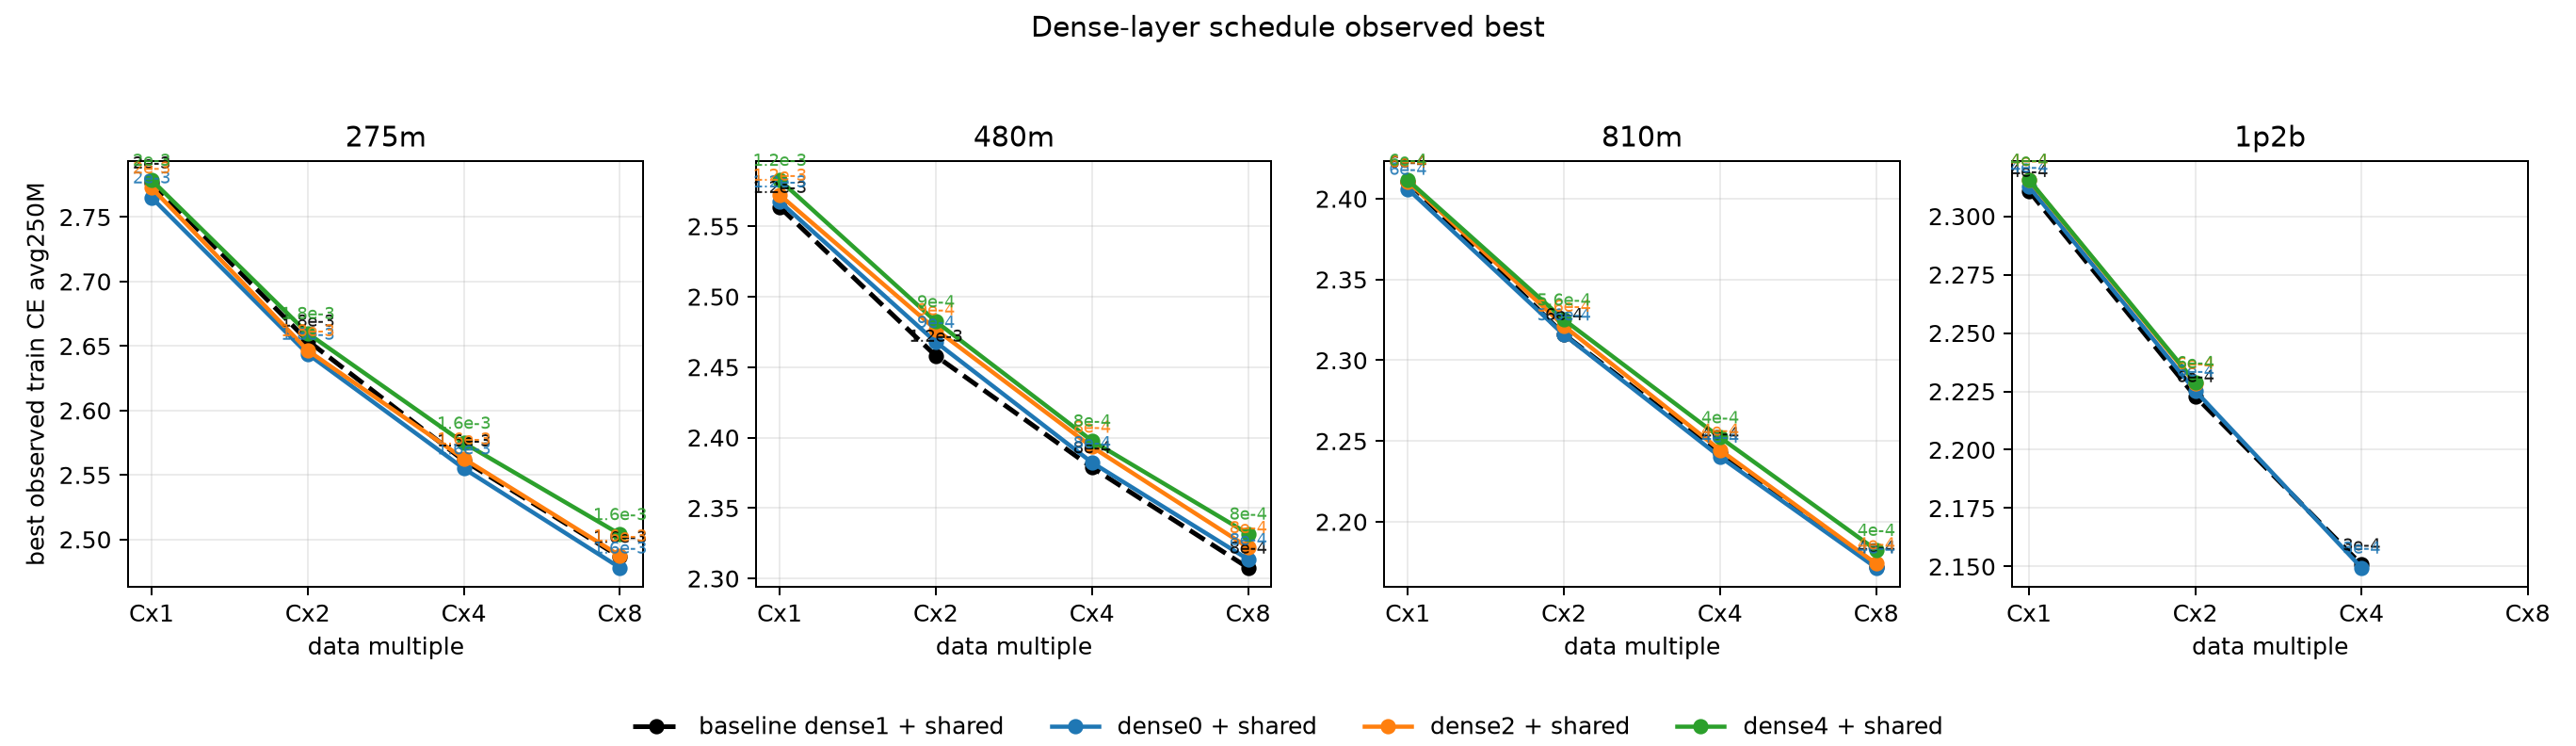
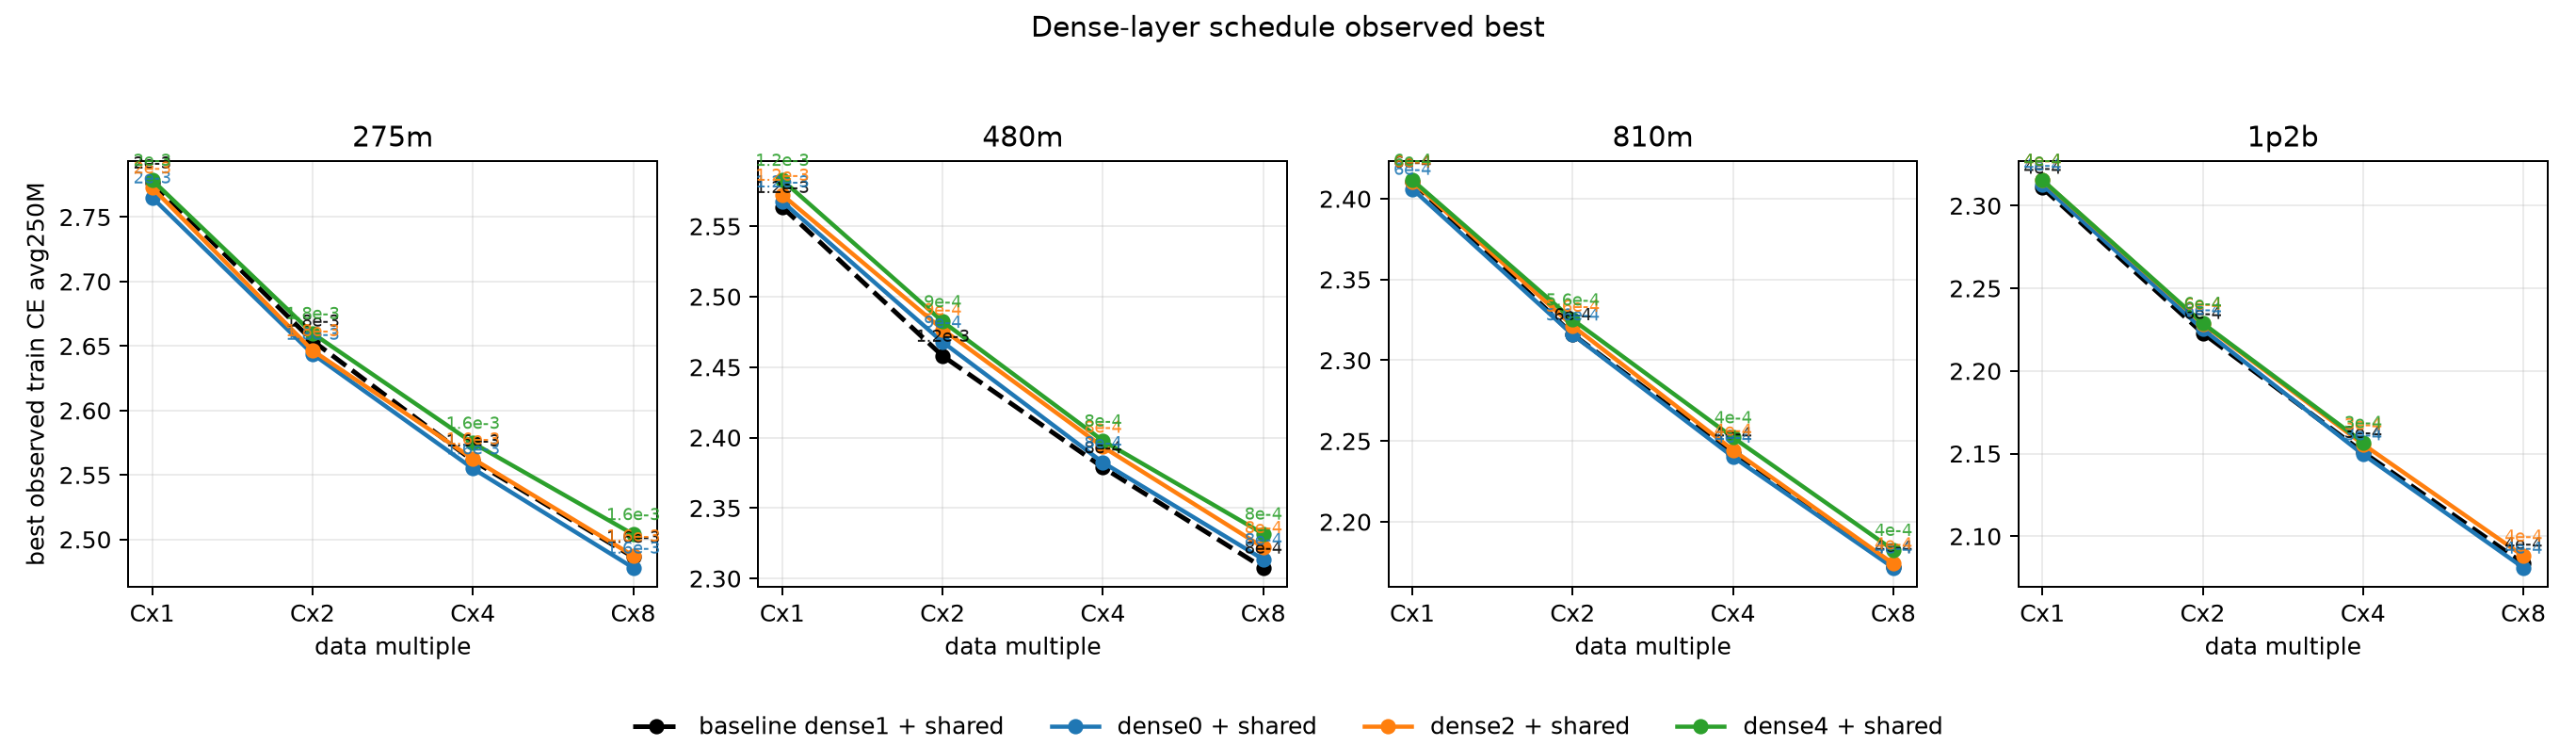
Use tail W&B history for ladder plots

diff --git a/src/scripts/train/jacobm_olmoe_ladder/wandb_cache.py b/src/scripts/train/jacobm_olmoe_ladder/wandb_cache.py
@@ -1,6 +1,7 @@
 from __future__ import annotations
 
 import json
+import math
 import os
 from pathlib import Path
 from typing import Any
@@ -12,6 +13,10 @@ CACHE_VERSION = 2
 
 def run_cache_key(project: str, run_id: str) -> str:
     return f"{project.replace('/', '__')}__{run_id}.json"
+
+
+def tail_cache_key(project: str, run_id: str, window_tokens: int) -> str:
+    return f"{project.replace('/', '__')}__{run_id}__tail_{window_tokens}.json"
 
 
 def run_cache_metadata(run: Any, keys: list[str] | None = None) -> dict[str, Any]:
@@ -33,6 +38,71 @@ def _history_max(history: list[dict[str, Any]], key: str) -> float | None:
     if not vals:
         return None
     return max(float(val) for val in vals)
+
+
+def _history_min(history: list[dict[str, Any]], key: str) -> float | None:
+    vals = [row.get(key) for row in history if row.get(key) is not None]
+    if not vals:
+        return None
+    return min(float(val) for val in vals)
+
+
+def _tokens_key(keys: list[str]) -> str:
+    for key in keys:
+        if key.endswith("total tokens"):
+            return key
+    return "throughput/total tokens"
+
+
+def _tail_step_range(run: Any, *, window_tokens: int, min_tail_steps: int = 2000) -> tuple[int, int]:
+    summary = dict(run.summary)
+    summary_step = summary.get("_step") or getattr(run, "lastHistoryStep", None)
+    summary_tokens = summary.get("throughput/total tokens") or summary.get("optim/total tokens")
+    last_step = getattr(run, "lastHistoryStep", None) or summary_step
+    if last_step is None:
+        return 0, min_tail_steps
+
+    tail_steps = min_tail_steps
+    if summary_step and summary_tokens:
+        tokens_per_step = float(summary_tokens) / max(float(summary_step), 1.0)
+        if tokens_per_step > 0:
+            tail_steps = max(min_tail_steps, math.ceil(window_tokens / tokens_per_step) + 100)
+
+    max_step = int(last_step) + 1
+    min_step = max(0, max_step - tail_steps)
+    return min_step, max_step
+
+
+def cached_tail_is_short(
+    cached_history: list[dict[str, Any]],
+    current_meta: dict[str, Any],
+    *,
+    window_tokens: int,
+    tokens_key: str = "throughput/total tokens",
+) -> bool:
+    if not cached_history:
+        return True
+
+    summary_tokens = current_meta.get("summary_total_tokens")
+    cached_tokens = _history_max(cached_history, tokens_key)
+    if cached_tokens is None:
+        return True
+    if summary_tokens is not None and cached_tokens < float(summary_tokens) - 5_000_000:
+        return True
+
+    cached_min_tokens = _history_min(cached_history, tokens_key)
+    if cached_min_tokens is None:
+        return True
+
+    summary_step = current_meta.get("summary_step")
+    tokens_per_step = 0.0
+    if summary_step and summary_tokens:
+        tokens_per_step = float(summary_tokens) / max(float(summary_step), 1.0)
+    # The tail cache must reach far enough left to cover the final averaging
+    # window. Allow a small step-sized cushion because the window boundary can
+    # fall between logged token values.
+    cushion = max(tokens_per_step * 2, 1.0)
+    return cached_min_tokens > cached_tokens - window_tokens + cushion
 
 
 def cached_history_is_short(
@@ -96,6 +166,79 @@ def read_history_from_cache(
     return history
 
 
+def read_tail_history_from_cache(
+    cache_dir: Path,
+    project: str,
+    run: Any,
+    *,
+    window_tokens: int,
+    tokens_key: str = "throughput/total tokens",
+    keys: list[str] | None = None,
+) -> list[dict[str, Any]] | None:
+    cache_path = cache_dir / tail_cache_key(project, run.id, window_tokens)
+    if not cache_path.exists():
+        return None
+
+    with cache_path.open("r") as f:
+        cached = json.load(f)
+
+    cached_meta = cached.get("metadata", {})
+    current_meta = run_cache_metadata(run, keys)
+    if cached_meta.get("cache_version") != CACHE_VERSION:
+        return None
+    if cached_meta.get("cache_kind") != "tail":
+        return None
+    if cached_meta.get("tail_window_tokens") != window_tokens:
+        return None
+    if keys is not None:
+        cached_keys = cached_meta.get("history_keys")
+        if cached_keys is None or not set(keys).issubset(set(cached_keys)):
+            return None
+    if cached_meta.get("state") != current_meta["state"]:
+        return None
+    if cached_meta.get("summary_step") != current_meta["summary_step"]:
+        return None
+
+    history = cached.get("history", [])
+    if cached_tail_is_short(history, current_meta, window_tokens=window_tokens, tokens_key=tokens_key):
+        return None
+    return history
+
+
+def write_tail_history_to_cache(
+    cache_dir: Path,
+    project: str,
+    run: Any,
+    history: list[dict[str, Any]],
+    *,
+    window_tokens: int,
+    min_step: int,
+    max_step: int,
+    keys: list[str] | None = None,
+) -> None:
+    cache_dir.mkdir(parents=True, exist_ok=True)
+    cache_path = cache_dir / tail_cache_key(project, run.id, window_tokens)
+    metadata = run_cache_metadata(run, keys)
+    metadata.update(
+        {
+            "cache_kind": "tail",
+            "tail_window_tokens": window_tokens,
+            "min_step": min_step,
+            "max_step": max_step,
+        }
+    )
+    payload = {
+        "metadata": metadata,
+        "display_name": run.display_name,
+        "url": run.url,
+        "history": history,
+    }
+    tmp_path = cache_path.with_suffix(".tmp")
+    with tmp_path.open("w") as f:
+        json.dump(payload, f)
+    tmp_path.replace(cache_path)
+
+
 def write_history_to_cache(
     cache_dir: Path,
     project: str,
@@ -127,24 +270,57 @@ def scan_history_cached(
     refresh_cache: bool = False,
     refresh_stale_cache: bool = False,
     page_size: int = 1000,
+    tail_window_tokens: int | None = None,
+    tail_page_size: int = 100_000,
 ) -> list[dict[str, Any]]:
+    tokens_key = _tokens_key(keys)
     if not refresh_cache and run.state == "finished":
-        tokens_key = "throughput/total tokens"
-        for key in keys:
-            if key.endswith("total tokens"):
-                tokens_key = key
-                break
         cached = read_history_from_cache(
             cache_dir,
             project,
             run,
             allow_stale=not refresh_stale_cache,
-            require_complete=refresh_stale_cache,
+            require_complete=refresh_stale_cache or tail_window_tokens is not None,
             tokens_key=tokens_key,
             keys=keys,
         )
         if cached is not None:
             return cached
+
+        if tail_window_tokens is not None:
+            tail_cached = read_tail_history_from_cache(
+                cache_dir,
+                project,
+                run,
+                window_tokens=tail_window_tokens,
+                tokens_key=tokens_key,
+                keys=keys,
+            )
+            if tail_cached is not None:
+                return tail_cached
+
+    if run.state == "finished" and tail_window_tokens is not None:
+        min_step, max_step = _tail_step_range(run, window_tokens=tail_window_tokens)
+        history = [
+            dict(row)
+            for row in run.scan_history(
+                keys=keys,
+                min_step=min_step,
+                max_step=max_step,
+                page_size=max(tail_page_size, max_step - min_step),
+            )
+        ]
+        write_tail_history_to_cache(
+            cache_dir,
+            project,
+            run,
+            history,
+            window_tokens=tail_window_tokens,
+            min_step=min_step,
+            max_step=max_step,
+            keys=keys,
+        )
+        return history
 
     if run.state == "finished" and os.environ.get("SKIP_UNCACHED_FINISHED_HISTORY") == "1":
         return []

diff --git a/src/scripts/train/jacobm_olmoe_ladder/experiments/dense_schedule/plot_dense_schedule.py b/src/scripts/train/jacobm_olmoe_ladder/experiments/dense_schedule/plot_dense_schedule.py
@@ -99,6 +99,7 @@ def history_loss(
         refresh_cache=refresh_cache,
         refresh_stale_cache=refresh_stale_cache,
         page_size=10000,
+        tail_window_tokens=window_m * 1_000_000,
     ):
         tokens = row.get(TOKENS_KEY)
         loss = row.get(LOSS_KEY)

diff --git a/src/scripts/train/jacobm_olmoe_ladder/experiments/expert_granularity/plot_expert_granularity.py b/src/scripts/train/jacobm_olmoe_ladder/experiments/expert_granularity/plot_expert_granularity.py
@@ -88,6 +88,7 @@ def history_loss(
         refresh_cache=refresh_cache,
         refresh_stale_cache=refresh_stale_cache,
         page_size=10000,
+        tail_window_tokens=window_m * 1_000_000,
     ):
         tokens = row.get(TOKENS_KEY)
         loss = row.get(LOSS_KEY)

diff --git a/src/scripts/train/jacobm_olmoe_ladder/experiments/qwen3_like/plot_qwen3_like.py b/src/scripts/train/jacobm_olmoe_ladder/experiments/qwen3_like/plot_qwen3_like.py
@@ -104,6 +104,7 @@ def history_loss(
         refresh_cache=refresh_cache,
         refresh_stale_cache=refresh_stale_cache,
         page_size=10000,
+        tail_window_tokens=window_m * 1_000_000,
     ):
         tokens = row.get(TOKENS_KEY)
         loss = row.get(LOSS_KEY)

diff --git a/src/scripts/train/jacobm_olmoe_ladder/experiments/shared_expert/plot_shared_expert.py b/src/scripts/train/jacobm_olmoe_ladder/experiments/shared_expert/plot_shared_expert.py
@@ -85,6 +85,7 @@ def history_loss(
         refresh_cache=refresh_cache,
         refresh_stale_cache=refresh_stale_cache,
         page_size=10000,
+        tail_window_tokens=window_m * 1_000_000,
     ):
         tokens = row.get(TOKENS_KEY)
         loss = row.get(LOSS_KEY)

diff --git a/src/scripts/train/jacobm_olmoe_ladder/experiments/total_sparsity/plot_total_sparsity.py b/src/scripts/train/jacobm_olmoe_ladder/experiments/total_sparsity/plot_total_sparsity.py
@@ -87,6 +87,7 @@ def history_loss(
         refresh_cache=refresh_cache,
         refresh_stale_cache=refresh_stale_cache,
         page_size=10000,
+        tail_window_tokens=window_m * 1_000_000,
     ):
         tokens = row.get(TOKENS_KEY)
         loss = row.get(LOSS_KEY)

diff --git a/src/scripts/train/jacobm_olmoe_ladder/RUN_TRACKER.md b/src/scripts/train/jacobm_olmoe_ladder/RUN_TRACKER.md
@@ -1,6 +1,6 @@
 # Ladder Run Tracker
 
-Last updated: 2026-06-29 20:30 UTC.
+Last updated: 2026-06-29 23:31 UTC.
 
 This table is a scan-friendly status matrix for planned ladder cells. It is separate from `RUNS.md` (chronological launch/status log) and `PLOTTED_RESULTS.md` (finished-only plotted rows and losses).
 
@@ -13,7 +13,7 @@ Legend: `done` = at least one finished/plotted run exists; `run` = currently run
 | Experiment | Remaining not-yet-queued / not-started cells | Notes |
 | --- | --- | --- |
 | Total sparsity | 1.2B Cx1/2/4/8 for high total 96E/top4 and huge total 192E/top4 | 275M, 480M, and 810M are done. |
-| Dense schedule | None beyond running/finished-unplotted 1.2B tail jobs | 480M and 810M are plotted. Several 1.2B dense jobs finished; three 1.2B dense histories are currently blocked by W&B `CommError`. |
+| Dense schedule | None beyond running 1.2B tail jobs | 480M, 810M, and finished 1.2B dense jobs are plotted. Remaining 1.2B Cx8 dense2/dense4 jobs are still running. |
 | Shared expert | 1.2B Cx8 queued/created | 480M, 810M, and 1.2B Cx1/2/4 are Beaker-finalized with exit code 0. The 2026-06-23 duplicate 480M relaunches were eval-only resumes; duplicate Cx8 was stopped before start. |
 | Qwen-like | None beyond restarted true-3D 1.2B Cx8 retry | Active-matched 1.2B Cx8 finished and is plotted. True-3D 1.2B Cx8 was restarted after an exit-1/cancelled attempt and has a fresh running W&B attempt. |
 | Expert granularity | None for main coarse/fine grid | Diagnostic 192E/384E remains intentionally limited to 275M Cx1. |
@@ -30,15 +30,15 @@ Legend: `done` = at least one finished/plotted run exists; `run` = currently run
 | Total sparsity | high total 96E/top4 | done Cx1/2/4/8 | done Cx1/2/4/8 | done Cx1/2/4/8 | todo Cx1/2/4/8 | 810M promoted wave complete. |
 | Total sparsity | huge total 192E/top4 | done Cx1/2/4/8 | done Cx1/2/4/8 | done Cx1/2/4/8 | todo Cx1/2/4/8 | 810M Cx4/Cx8 replacements finished since last status. |
 | Shared expert | no shared, routed 9/8 d | done Cx1/2/4/8 | done Cx1/2/4/8 | done Cx1/2/4/8 | done Cx1/2/4, queued Cx8 | 480M/810M/1.2B Cx1-4 finalized cleanly; 1.2B Cx8 remains queued. Shared plotter 480M name parsing was fixed 2026-06-24 after the status audit. |
-| Dense schedule | dense0 + shared | done Cx1/2/4/8 | done Cx1/2/4/8 | done Cx1/2/4/8 | done Cx1/2, finished-unplotted Cx4, finished-unplotted Cx8 | 810M Cx8 is now plotted. 1.2B Cx4/Cx8 dense0 are Beaker-finished but blocked by W&B `CommError`. |
-| Dense schedule | dense2 + shared | done Cx1/2/4/8 | done Cx1/2/4/8 | done Cx1/2/4/8 | done Cx1/2, finished-unplotted Cx4, run Cx8 | 810M Cx8 is now plotted. 1.2B Cx4 dense2 is blocked by W&B `CommError`. |
-| Dense schedule | dense4 + shared | done Cx1/2/4/8 | done Cx1/2/4/8 | done Cx1/2/4/8 | done Cx1/2, finished-unplotted Cx4, run Cx8 | 1.2B Cx2 dense4 is plotted; Cx4 is Beaker-finished but blocked by W&B `CommError`. |
+| Dense schedule | dense0 + shared | done Cx1/2/4/8 | done Cx1/2/4/8 | done Cx1/2/4/8 | done Cx1/2/4/8 | 1.2B Cx8 dense0 is plotted after full history eventually cached. |
+| Dense schedule | dense2 + shared | done Cx1/2/4/8 | done Cx1/2/4/8 | done Cx1/2/4/8 | done Cx1/2/4, run Cx8 | 1.2B Cx4 dense2 is plotted after full history eventually cached. |
+| Dense schedule | dense4 + shared | done Cx1/2/4/8 | done Cx1/2/4/8 | done Cx1/2/4/8 | done Cx1/2/4, run Cx8 | 1.2B Cx4 dense4 is plotted from exact tail history after full-history export timed out. |
 | Qwen3-like | active matched 4.5d | done Cx1/2/4/8 | done Cx1/2/4/8 | done Cx1/2/4/8 | done Cx1/2/4/8 | Main active-matched Qwen-like ladder is plotted through Cx8. |
 | Qwen3-like | true 3.0d + depth | done Cx1/2/4/8 | done Cx1/2/4/8 | done Cx1/2/4/8 | done Cx1/2/4, run Cx8 retry | Cx8 has a fresh running W&B attempt after earlier failed/crashed attempts. |
 
 ## Active / Queued Beaker Surface
 
-Bounded status pass on 2026-06-29 20:30 UTC checked only runs that were previously running, queued, created, or finished-unplotted in this table / `RUNS.md`; it did not scan the full historical W&B/Beaker surface.
+Bounded status pass on 2026-06-29 23:31 UTC checked only runs that were previously running, queued, created, or finished-unplotted in this table / `RUNS.md`; it did not scan the full historical W&B/Beaker surface.
 
 | Run(s) | State | Latest timestamp UTC | Beaker | Notes |
 | --- | --- | --- | --- | --- |
@@ -48,11 +48,11 @@ Bounded status pass on 2026-06-29 20:30 UTC checked only runs that were previous
 | `ds-810m-cx8-ds2-sh-lr4e-4-r1` | done | finalized 2026-06-26 04:28 | https://beaker.org/ex/01KVV20XZKCAXGRMTB9MDVFAWN | Full W&B history now cached; plotted. |
 | `ds-810m-cx8-ds4-sh-lr4e-4-r1` | done | finalized 2026-06-26 10:04 | https://beaker.org/ex/01KVV24VVNWDCGF6JSFKXYJ024 | Full W&B history now cached; plotted. |
 | `ds-1p2b-cx4-ds0-sh-lr3e-4-r1` | done | finalized 2026-06-27 08:05 | https://beaker.org/ex/01KVV28EST9EFM4ZF43BP2FN15 | Full W&B history now cached; plotted. |
-| `ds-1p2b-cx8-ds0-sh-lr4e-4-r1` | finished-unplotted | finalized 2026-06-28 17:45 | https://beaker.org/ex/01KVV29F7ZM9RW8DWF073QYYGF | W&B full-history fetch still returns `CommError` as of 2026-06-29 20:30; semantic run lookup confirms `qpp6fidz` is the matching finished run. |
-| `ds-1p2b-cx4-ds2-sh-lr3e-4-r1` | finished-unplotted | finalized 2026-06-28 01:44 | https://beaker.org/ex/01KVV2CCDP7P9C9HM6RYAMM2M8 | W&B full-history fetch still returns `CommError` as of 2026-06-29 20:30; semantic run lookup confirms `rn5yr28o` is the matching finished run. |
+| `ds-1p2b-cx8-ds0-sh-lr4e-4-r1` | done | finalized 2026-06-28 17:45 | https://beaker.org/ex/01KVV29F7ZM9RW8DWF073QYYGF | Full W&B history eventually cached for `qpp6fidz`; plotted. |
+| `ds-1p2b-cx4-ds2-sh-lr3e-4-r1` | done | finalized 2026-06-28 01:44 | https://beaker.org/ex/01KVV2CCDP7P9C9HM6RYAMM2M8 | Full W&B history eventually cached for `rn5yr28o`; plotted. |
 | `ds-1p2b-cx8-ds2-sh-lr4e-4-r1` | run | started 2026-06-26 04:29 | https://beaker.org/ex/01KVV2CVAH6ZYWMRYC8TRDS4DJ | dense2 1.2B Cx8. |
 | `ds-1p2b-cx2-ds4-sh-lr6e-4-r1` | done | finalized 2026-06-27 10:53 | https://beaker.org/ex/01KVV2DYRCB5ZDNTZHBD0MXGNX | Full W&B history cached; plotted. |
-| `ds-1p2b-cx4-ds4-sh-lr3e-4-r1` | finished-unplotted | finalized 2026-06-28 10:19 | https://beaker.org/ex/01KVV2EE8YK7B0MF0EFJ3P9YCZ | W&B full-history fetch still returns `CommError` as of 2026-06-29 20:30; semantic run lookup confirms `2i9wpg3j` is the matching finished run. |
+| `ds-1p2b-cx4-ds4-sh-lr3e-4-r1` | done | finalized 2026-06-28 10:19 | https://beaker.org/ex/01KVV2EE8YK7B0MF0EFJ3P9YCZ | Full W&B history still times out, but exact final-window tail scan succeeded for `2i9wpg3j`; plotted. |
 | `ds-1p2b-cx8-ds4-sh-lr4e-4-r1` | run | started 2026-06-26 21:15 | https://beaker.org/ex/01KVV2F1R6M48R02BKM9RVJZH0 | dense4 1.2B Cx8. |
 | `se-1p2b-cx8-se0m9-lr4e-4-r1` | run | started 2026-06-26 23:55 | https://beaker.org/ex/01KVV2FTHMVKP4ARF5B2A86DN5 | Shared-expert 1.2B Cx8 on Titan urgent, compile-on. |
 
@@ -62,13 +62,13 @@ Bounded status pass on 2026-06-29 20:30 UTC checked only runs that were previous
 
 On 2026-06-29, the previously blocked full W&B `scan_history` calls for `5x1zju17`, `abbmdfx0`, `13sr2oht`, and `4x0anaih` succeeded and those runs are now in the canonical dense-schedule plots. The sampled fallback values below are retained only as a record of the temporary diagnostic path; do not mix sampled fallback values into canonical plots unless we explicitly decide to change plotting policy.
 
-Current unresolved dense-schedule history fetches:
+Current dense-schedule history resolution:
 
-| Run ID | Cell | Beaker state | Issue | Note |
+| Run ID | Cell | Beaker state | Resolution | Note |
 | --- | --- | --- | --- | --- |
-| `qpp6fidz` | 1.2B Cx8 dense0 | finished | W&B `CommError` during full-history fetch | Retried 2026-06-29 20:30; semantic display-name lookup finds no newer replacement run. |
-| `rn5yr28o` | 1.2B Cx4 dense2 | finished | W&B `CommError` during full-history fetch | Retried 2026-06-29 20:30; semantic display-name lookup finds no newer replacement run. |
-| `2i9wpg3j` | 1.2B Cx4 dense4 | finished | W&B `CommError` during full-history fetch | Retried 2026-06-29 20:30; semantic display-name lookup finds no newer replacement run; do not plot until exact history is cached. |
+| `qpp6fidz` | 1.2B Cx8 dense0 | finished | full history cached | Exact avg250M plotted: 2.0809. |
+| `rn5yr28o` | 1.2B Cx4 dense2 | finished | full history cached | Exact avg250M plotted: 2.1557. |
+| `2i9wpg3j` | 1.2B Cx4 dense4 | finished | tail history cached | Full-history scan still times out, but exact tail scan over final 2,001 steps matches full-cache validation on `rn5yr28o`; exact avg250M plotted: 2.1568. |
 
 Resolved sampled diagnostics from 2026-06-28:
 

diff --git a/src/scripts/train/jacobm_olmoe_ladder/PLOTTED_RESULTS.md b/src/scripts/train/jacobm_olmoe_ladder/PLOTTED_RESULTS.md
@@ -1,6 +1,6 @@
 # Plotted Results
 
-Generated: 2026-06-29 03:35 UTC
+Generated: 2026-06-29 23:31 UTC
 
 This file is generated by `write_plotted_results_md.py` from the same cached W&B histories used by the plotters.
 It mirrors the default plotting policy: completed runs only, training CE averaged over the final 250M tokens, and running jobs excluded so axes and tables do not shift around live partial runs.
@@ -702,6 +702,11 @@ These are the completed points used by the dense schedule plots. Baseline rows a
 | 1.2B | Cx2 | dense4 + shared | 6e-4 | 2.2289 |  |  | 1 |
 | 1.2B | Cx4 | baseline dense1 + shared | 3e-4 | 2.1508 | 0.000366 | 2.1500 | 4 |
 | 1.2B | Cx4 | dense0 + shared | 3e-4 | 2.1495 |  |  | 1 |
+| 1.2B | Cx4 | dense2 + shared | 3e-4 | 2.1557 |  |  | 1 |
+| 1.2B | Cx4 | dense4 + shared | 3e-4 | 2.1568 |  |  | 1 |
+| 1.2B | Cx8 | baseline dense1 + shared | 4e-4 | 2.0835 | 0.000348 | 2.0831 | 3 |
+| 1.2B | Cx8 | dense0 + shared | 4e-4 | 2.0809 |  |  | 1 |
+| 1.2B | Cx8 | dense2 + shared | 4e-4 | 2.0880 |  |  | 1 |
 
 | model | Cx | variant | LR | tokensB | avg250M | W&B |
 | --- | --- | --- | --- | --- | --- | --- |
@@ -855,6 +860,13 @@ These are the completed points used by the dense schedule plots. Baseline rows a
 | 1.2B | Cx4 | baseline dense1 + shared | 6e-4 | 85.133 | 2.1548 | [1tzma107](https://wandb.ai/ai2-llm/jacobm-olmoe-ladder/runs/1tzma107) |
 | 1.2B | Cx4 | baseline dense1 + shared | 1.2e-3 | 85.133 | 2.1802 | [vksk7sux](https://wandb.ai/ai2-llm/jacobm-olmoe-ladder/runs/vksk7sux) |
 | 1.2B | Cx4 | dense0 + shared | 3e-4 | 85.139 | 2.1495 | [4x0anaih](https://wandb.ai/ai2-llm/jacobm-olmoe-ladder/runs/4x0anaih) |
+| 1.2B | Cx4 | dense2 + shared | 3e-4 | 85.127 | 2.1557 | [rn5yr28o](https://wandb.ai/ai2-llm/jacobm-olmoe-ladder/runs/rn5yr28o) |
+| 1.2B | Cx4 | dense4 + shared | 3e-4 | 85.116 | 2.1568 | [2i9wpg3j](https://wandb.ai/ai2-llm/jacobm-olmoe-ladder/runs/2i9wpg3j) |
+| 1.2B | Cx8 | baseline dense1 + shared | 2e-4 | 170.266 | 2.0897 | [jdrvfvfn](https://wandb.ai/ai2-llm/jacobm-olmoe-ladder/runs/jdrvfvfn) |
+| 1.2B | Cx8 | baseline dense1 + shared | 4e-4 | 170.266 | 2.0835 | [gbt7khqj](https://wandb.ai/ai2-llm/jacobm-olmoe-ladder/runs/gbt7khqj) |
+| 1.2B | Cx8 | baseline dense1 + shared | 8e-4 | 170.266 | 2.0979 | [ja7yu1c3](https://wandb.ai/ai2-llm/jacobm-olmoe-ladder/runs/ja7yu1c3) |
+| 1.2B | Cx8 | dense0 + shared | 4e-4 | 170.278 | 2.0809 | [qpp6fidz](https://wandb.ai/ai2-llm/jacobm-olmoe-ladder/runs/qpp6fidz) |
+| 1.2B | Cx8 | dense2 + shared | 4e-4 | 170.255 | 2.0880 | [oyvs0wyz](https://wandb.ai/ai2-llm/jacobm-olmoe-ladder/runs/oyvs0wyz) |
 
 ## Qwen3-Like
 